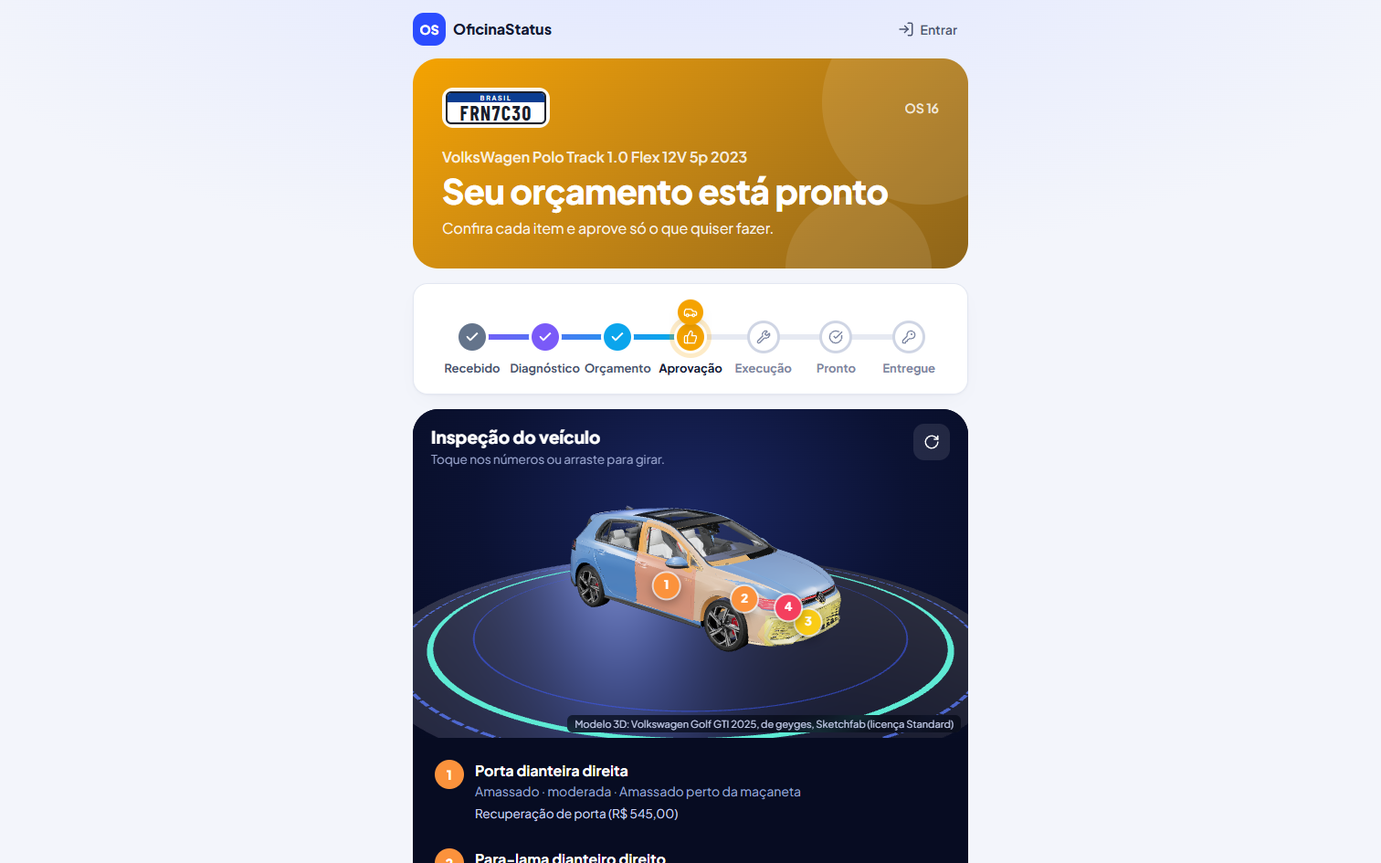
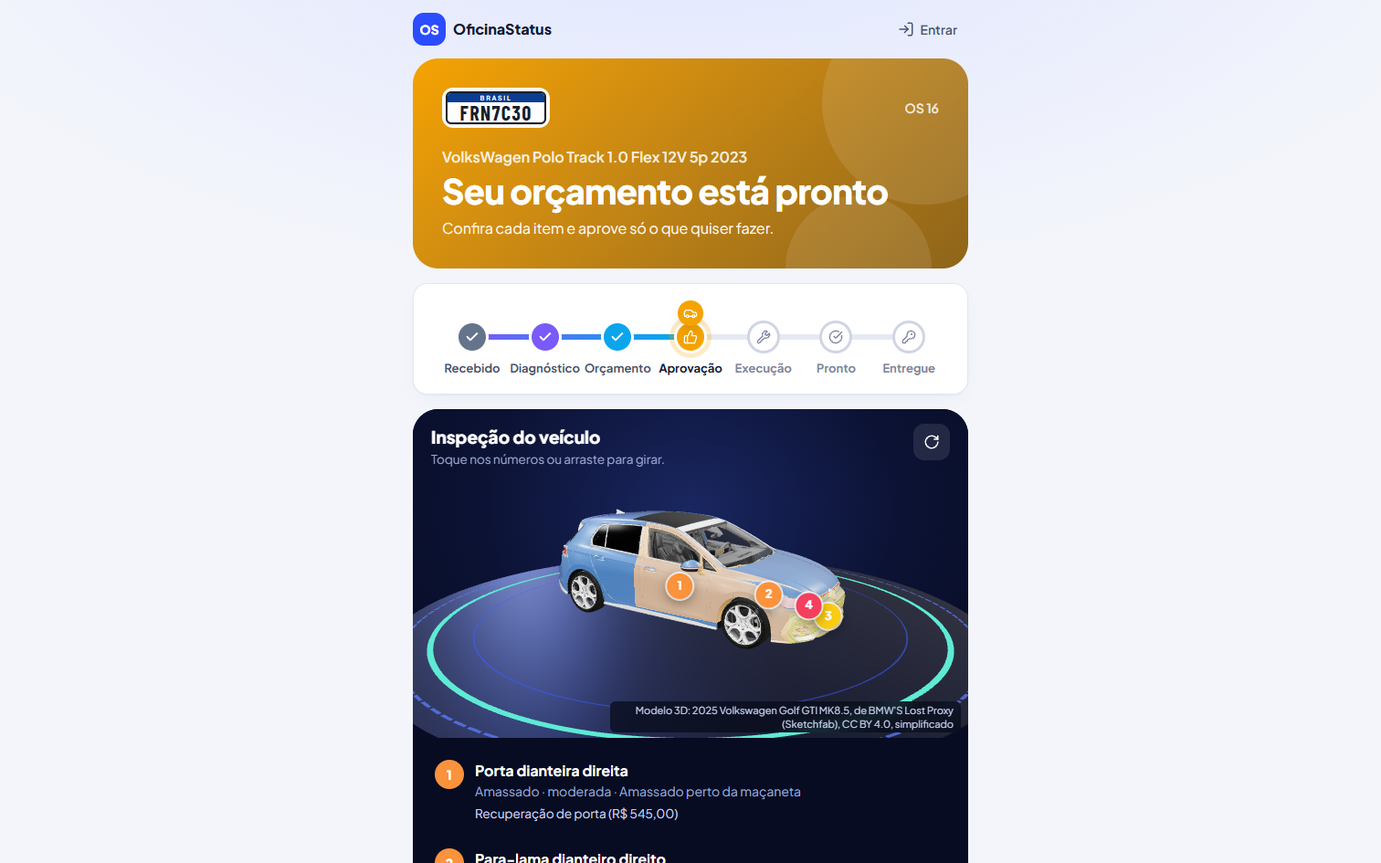
Adiciona o checklist do projeto integrador, o roteiro da apresentação e o domínio no README
- README: seção "Checklist do projeto integrador" com cada requisito
  comum, do Anexo A (Telegram) e do B.8, a situação e a evidência, e
  "print pendente" onde falta print do grupo
- README: passo 9 com o domínio oficinastatus.com.br no DNS do
  Registro.br (registros A, CNAME e TXT asuid), respostas 4 a 6 do B.9
  atualizadas e a estrutura com os modelos 3D e os scripts novos
- docs/apresentacao.md: roteiro de 5 minutos e perguntas prováveis
- docs/deploy/telegram-webhook.txt: getMe e getWebhookInfo, sem o token
- prints da inspeção 3D refeitos com os modelos novos

Changed region(s): [[0.2798, 0.5831, 0.6839, 0.8593]]

diff --git a/README.md b/README.md
@@ -35,7 +35,7 @@ Prints de desktop (1512×945) com os dados do `npm run seed`. A área do cliente
 - **Orçamentos** (ORC-ano-número) com filtro por situação, **Serviços** (catálogo de preços por categoria, editável pelo administrador) e **Histórico** de serviços encerrados.
 - **Abertura de OS pela placa:** se o carro já veio antes, aparece na hora. Se for novo, a consulta por placa (PlacaFipe) preenche marca, modelo, ano e cor, e a busca na **API FIPE** traz o valor de referência.
 - **7 etapas:** recebido → diagnóstico → orçamento → aprovação → execução (com "aguardando peça") → pronto → entregue. O servidor não deixa pular etapas.
-- **Como a inspeção funciona:** um carro em 3D, modelado no próprio sistema, em que o mecânico clica no ponto danificado. A peça é reconhecida sozinha (porta dianteira direita, capô, farol…). Ele escolhe o tipo de avaria e a gravidade, e o sistema sugere os serviços da tabela de preços, com valor e tempo. **Gerar orçamento** transforma as avarias em itens da OS e, se ela estiver no diagnóstico, já o conclui. O cliente vê o carro com os pontos marcados no portal.
+- **Como a inspeção funciona:** um carro em 3D, com um modelo real por carroceria ([Modelos 3D](#modelos-3d)) pintado com a cor do veículo, em que o mecânico clica no ponto danificado. A peça é reconhecida sozinha (porta dianteira direita, capô, farol…). Ele escolhe o tipo de avaria e a gravidade, e o sistema sugere os serviços da tabela de preços, com valor e tempo. **Gerar orçamento** transforma as avarias em itens da OS e, se ela estiver no diagnóstico, já o conclui. O cliente vê o carro com os pontos marcados no portal.
 - **Orçamento por itens**, com peças e mão de obra separadas.
 - **Mecânico responsável:** cada mecânico vê só as OS dele e as que ainda não têm responsável.
 - **Fotos** da entrada, do diagnóstico, da execução e da entrega, tiradas direto pelo celular.
@@ -331,22 +331,44 @@ az containerapp update -g rg-oficinastatus -n oficinastatus --image oficinastatu
 ```
 Cada atualização cria uma revisão nova, que aplica as migrations pendentes antes de subir.
 
-#### 9. Domínio próprio (falta)
-O Anexo B.3 exige domínio próprio também no caminho 2. O domínio vai sair pelo GitHub Student Developer Pack. Quando sair:
-1. **Zona e nameservers:** *DNS zones → Create* no `rg-oficinastatus`. Os **quatro** nameservers do *Overview* (`azure-dns.com`, `.net`, `.org` e `.info`) vão no painel do registrador.
-2. **Registros:** num subdomínio, como `www`, crie um **CNAME** para `oficinastatus.graystone-3f5d3230.brazilsouth.azurecontainerapps.io` e um **TXT** `asuid.www` com o *Custom domain verification ID* do app:
-   ```bash
-   az containerapp show -g rg-oficinastatus -n oficinastatus --query properties.customDomainVerificationId -o tsv
-   ```
-   Na raiz (`@`), o CNAME não é permitido: use um **registro A** para o IP estático do ambiente (`az containerapp env show … --query properties.staticIp`) e um TXT `asuid`.
-3. **Certificado gerenciado:** é gratuito e o Azure renova sozinho.
-   ```bash
-   az containerapp hostname add -g rg-oficinastatus -n oficinastatus --hostname www.<domínio>
-   az containerapp hostname bind -g rg-oficinastatus -n oficinastatus --hostname www.<domínio> \
-     --environment oficinastatus-env --validation-method CNAME
-   ```
-4. **`APP_URL`:** troque para o domínio novo, com `az containerapp update --set-env-vars APP_URL=https://www.<domínio>`.
-5. **Webhook:** registre no domínio definitivo com `npm run webhook -- --url https://www.<domínio>` (usa o token do `server/.env` local, o mesmo do secret).
+#### 9. Domínio próprio: oficinastatus.com.br
+O Anexo B.3 exige domínio próprio também no caminho 2. O domínio **oficinastatus.com.br** foi registrado no **Registro.br**, e a zona fica no DNS do próprio Registro.br, no **modo avançado**. Não foi criada uma zona no Azure DNS.
+
+- **Nameservers:** `a.auto.dns.br` e `b.auto.dns.br`, os do Registro.br. Eles já vêm configurados no domínio, então não há nameserver para trocar no registrador.
+- **Registros:** foram criados no painel do Registro.br, em *DNS → Editar zona*, no modo avançado.
+
+| Tipo | Nome | Valor | Para quê |
+|---|---|---|---|
+| A | *(raiz)* | `4.238.147.212` | IP estático do ambiente `oficinastatus-env` (`az containerapp env show … --query properties.staticIp`) |
+| TXT | `asuid` | *Custom domain verification ID* do app | prova ao Azure que o domínio é nosso |
+| CNAME | `www` | `oficinastatus.graystone-3f5d3230.brazilsouth.azurecontainerapps.io` | endereço do app |
+| TXT | `asuid.www` | o mesmo verification ID | prova do `www` |
+
+O verification ID sai de:
+```bash
+az containerapp show -g rg-oficinastatus -n oficinastatus --query properties.customDomainVerificationId -o tsv
+```
+
+Para conferir do seu computador:
+```bash
+nslookup -type=NS oficinastatus.com.br   # a.auto.dns.br e b.auto.dns.br
+nslookup oficinastatus.com.br            # 4.238.147.212
+nslookup www.oficinastatus.com.br        # CNAME para o Container Apps
+```
+
+Com os registros publicados, o certificado gerenciado é gratuito e renovado pelo Azure. A raiz é validada por HTTP; o `www`, pelo CNAME:
+```bash
+az containerapp hostname add  -g rg-oficinastatus -n oficinastatus --hostname oficinastatus.com.br
+az containerapp hostname bind -g rg-oficinastatus -n oficinastatus --hostname oficinastatus.com.br \
+  --environment oficinastatus-env --validation-method HTTP
+az containerapp hostname add  -g rg-oficinastatus -n oficinastatus --hostname www.oficinastatus.com.br
+az containerapp hostname bind -g rg-oficinastatus -n oficinastatus --hostname www.oficinastatus.com.br \
+  --environment oficinastatus-env --validation-method CNAME
+az containerapp update -g rg-oficinastatus -n oficinastatus --set-env-vars APP_URL=https://oficinastatus.com.br
+npm run webhook -- --url https://oficinastatus.com.br   # setWebhook com o segredo; usa o token do server/.env local, o mesmo do secret
+```
+
+**Situação em 11/11/2026, de madrugada:** os 4 registros foram salvos no painel, mas o Registro.br ainda não os tinha publicado. A zona servida por `a.auto.dns.br` só tinha o TXT `v=spf1 -all`. Por isso, os hostnames, o certificado, o `APP_URL` e o webhook no domínio ficaram para depois da publicação. Veja o [relatório](docs/relatorio-final.md).
 
 #### 10. Limitações conhecidas
 - **Fotos das OS:** ficam em `server/data/uploads`, no disco do contêiner, e **se perdem a cada nova revisão ou reinício**. Para guardá-las de verdade, seria preciso montar um volume do Azure Files.
@@ -389,14 +411,13 @@ Em *Azure Database for PostgreSQL flexible servers → Create*, com *Burstable B
 Com acesso privado, e não por firewall (passo 5). O app roda numa VNet, e o banco só é alcançável por um Private Endpoint nela, com o acesso público desligado. Os IPs de saída do Container Apps de consumo são compartilhados, e a opção *Allow public access from any Azure service* liberaria qualquer recurso do Azure, inclusive de outros clientes. Nunca `0.0.0.0/0`.
 
 **4. Onde fica o serviço de DNS do provedor, e como se cria uma zona para o seu domínio?**
-No **Azure DNS**, em *DNS zones → Create*, com o nome do domínio sem `www` (passo 9). A zona custa centavos por mês ([tutorial](https://learn.microsoft.com/en-us/azure/dns/dns-delegate-domain-azure-dns)).
+No Azure, o serviço é o **Azure DNS**: *DNS zones → Create*, com o nome do domínio sem `www`, por centavos por mês ([tutorial](https://learn.microsoft.com/en-us/azure/dns/dns-delegate-domain-azure-dns)). Neste projeto, a zona ficou no **DNS do Registro.br**, onde o domínio foi registrado, no modo avançado, que permite criar registros A, CNAME e TXT sem custo e sem delegar o domínio (passo 9). O Container Apps não exige que a zona esteja no Azure, só os registros certos.
 
 **5. Quais nameservers o provedor devolveu, e onde eles são informados no registrador do domínio?**
-O Azure devolve quatro, um de cada domínio (`azure-dns.com`, `.net`, `.org` e `.info`), listados no *Overview* da zona. Os quatro vão no painel do registrador, na opção de alterar os servidores DNS. É esse passo que entrega o domínio ao Azure.
-- Nameservers e registrador: `<preencher quando o domínio sair>`
+Com a zona no Registro.br, os nameservers são os dele, `a.auto.dns.br` e `b.auto.dns.br`, que já vêm configurados no domínio. Com o Azure DNS, seriam os quatro do *Overview* da zona (`azure-dns.com`, `.net`, `.org` e `.info`), informados no Registro.br em *Domínio → DNS → Alterar servidores DNS*. É essa troca que entrega o domínio ao Azure.
 
 **6. O seu caso pede registro A ou CNAME? Por quê?**
-**CNAME** num subdomínio (`www`), porque o Container Apps entrega um **nome** (`oficinastatus.graystone-3f5d3230…azurecontainerapps.io`), não um IP da aplicação. A raiz do domínio não aceita CNAME; nela vai um registro A para o IP estático do ambiente. Nos dois casos, o TXT `asuid` prova ao Azure que o domínio é seu.
+**Os dois.** O `www` usa **CNAME**, porque o Container Apps entrega um **nome** (`oficinastatus.graystone-3f5d3230…azurecontainerapps.io`), não um IP fixo da aplicação. A raiz (`oficinastatus.com.br`) não aceita CNAME, porque o DNS não permite CNAME junto com os registros SOA e NS da zona. Nela vai um **registro A** para o IP estático do ambiente (`4.238.147.212`). Nos dois casos, o TXT `asuid` prova ao Azure que o domínio é nosso.
 
 **7. Qual é o mecanismo de certificado do provedor, e ele funciona na arquitetura que vocês escolheram?**
 Funciona. O Container Apps tem **certificado gerenciado gratuito**, que o Azure emite e renova sozinho, para o domínio próprio (passo 9). O endereço `*.azurecontainerapps.io` já vem com o certificado da Microsoft, testado no passo 7. Por isso o Caddy e o Let's Encrypt do caminho 1 não são necessários.
@@ -407,19 +428,66 @@ Em *Cost Management → Budgets*, com orçamento mensal e alertas de 25 %, 50 % 
 **9. Como parar a aplicação e o banco entre uma aula e outra, e o que continua sendo cobrado?**
 O app escala para zero com `--min-replicas 0`. Sem réplica rodando, não há cobrança de processamento, mas o ACR, o Private Endpoint e os logs continuam. O banco para com `az postgres flexible-server stop`, e o armazenamento e os backups continuam sendo cobrados.
 
-### Checklist da entrega (B.8)
-- [x] Provedor escolhido e justificado (início desta seção)
-- [x] Aplicação no ar em https://oficinastatus.graystone-3f5d3230.brazilsouth.azurecontainerapps.io, sem túnel
-- [x] Banco gerenciado e string de conexão sem a senha
-- [x] Banco fechado para a internet: sem acesso público, só pelo Private Endpoint (passo 5)
-- [x] Migrations rodando no banco da nuvem: [`docs/deploy/migrations-azure.log`](docs/deploy/migrations-azure.log)
-- [x] HTTPS válido no endereço do Azure (passo 7)
-- [ ] Domínio próprio, DNS e certificado gerenciado (passo 9)
-- [ ] Webhook do Telegram na URL definitiva (passo 9)
-- [x] Alerta de gasto: orçamento de US$ 100 com alertas de 25 %, 50 % e 100 % (veja *Custo e controle de gasto*)
-- [ ] Prints para o relatório: recursos do grupo, Private Endpoint, banco com acesso público desligado, log das migrations, cadeado no navegador e consumo da assinatura
+O checklist completo da entrega, com o B.8, está em [Checklist do projeto integrador](#checklist-do-projeto-integrador).
 
 Fontes: [Azure Container Apps](https://learn.microsoft.com/azure/container-apps/) · [Rede do Container Apps](https://learn.microsoft.com/azure/container-apps/networking) · [Private Link no Flexible Server](https://learn.microsoft.com/azure/postgresql/flexible-server/concepts-networking-private-link) · [Domínio próprio e certificado gerenciado](https://learn.microsoft.com/azure/container-apps/custom-domains-managed-certificates) · [Parar o Flexible Server](https://learn.microsoft.com/en-us/azure/postgresql/configure-maintain/how-to-stop-server) · [Azure DNS](https://learn.microsoft.com/en-us/azure/dns/dns-delegate-domain-azure-dns) · [Orçamentos no Cost Management](https://learn.microsoft.com/en-us/azure/cost-management-billing/costs/tutorial-acm-create-budgets)
+
+## Checklist do projeto integrador
+
+Cada requisito do `projeto-integrador.pdf`, conferido em 11/11/2026 contra o Azure, o DNS e este repositório:
+- ✅ feito, com a evidência ao lado;
+- ⏳ depende de algo de fora (DNS ou print);
+- ❌ não feito.
+
+Onde a evidência é um print que só o grupo pode tirar, aparece **print pendente**.
+
+### Requisitos comuns (tema 12, OficinaStatus)
+
+| Requisito | Situação | Evidência |
+|---|---|---|
+| API REST própria em Node.js | ✅ | [`server/src/routes/`](server/src/routes), seção [API](#api) |
+| PostgreSQL com migrations versionadas | ✅ | [`server/migrations/`](server/migrations), tabela `schema_migrations`, [`server/src/migrar.js`](server/src/migrar.js) |
+| Entidades mínimas: `clientes`, `veiculos`, `ordens_servico`, `etapas`, `mensagens` | ✅ | [`001_inicial.sql`](server/migrations/001_inicial.sql), [`002_telegram.sql`](server/migrations/002_telegram.sql), [DER](docs/der.md) |
+| Bot do Telegram enviando, e registro de **toda** mensagem enviada e recebida | ✅ | tabela `mensagens` (com `payload_bruto`), [`envio.js`](server/src/services/envio.js), [`telegram.test.js`](server/test/telegram.test.js) |
+| Webhook público em HTTPS, com validação da origem e status `enfileirada / enviada / falha / respondida` | ✅ no endereço do Azure · ⏳ no domínio | `POST /webhook/telegram` responde 401 sem o segredo (testado em produção); registro no domínio: [passo 9](#9-domínio-próprio-oficinastatuscombr) |
+| Vínculo (opt-in) por deep link, com o `chat_id` gravado | ✅ | `canais_usuario`, [`canais.js`](server/src/services/canais.js), teste "o deep link vincula o chat" |
+| Segunda API: FIPE (Parallelum) | ✅ | [`fipe.js`](server/src/services/fipe.js), seção [FIPE](#fipe-parallelum) |
+| Docker Compose no desenvolvimento (aplicação + banco) | ✅ | [`docker-compose.yml`](docker-compose.yml) |
+| Prometheus e Grafana (2º bimestre) | ❌ | ainda não feito |
+| Repositório com uma tag por aula (`aula-01` a `aula-18`) e release `v1.0.0` | ❌ | o repositório não tem tags nem releases |
+| CI com lint e testes | ✅ | [`.github/workflows/ci.yml`](.github/workflows/ci.yml): lint, 40 testes de integração e build a cada push |
+| Deploy em nuvem com URL pública e HTTPS válido | ✅ no endereço do Azure · ⏳ no domínio | [Deploy no Azure](#deploy-no-azure-container-apps), passo 7 |
+
+### Anexo A: Telegram (A.3.7, A.5 e A.7)
+
+| Item | Situação | Evidência |
+|---|---|---|
+| Bot criado no @BotFather, token no `.env`, fora do Git | ✅ | `@oficinastatus_breno_bot`. Em produção, o token é o secret `telegram-token` do Container Apps |
+| `getMe` respondendo `ok: true` | ✅ | conferido em 11/11/2026 |
+| Deep link de vínculo gravando o `chat_id` | ✅ | teste "o deep link vincula o chat e funciona para cliente sem e-mail" |
+| Envio com o `message_id` em `mensagens.id_externo` | ✅ | teste "envio grava o message_id" |
+| `setWebhook` com `secret_token` e 401 quando o cabeçalho não confere | ✅ 401 · ⏳ URL definitiva | teste "webhook recusa quem não traz o segredo certo"; registro e `getWebhookInfo` no domínio: [`docs/deploy/telegram-webhook.txt`](docs/deploy/telegram-webhook.txt) |
+| Mensagens recebidas e cliques de botão persistidos | ✅ | testes "Aprovar pelo botão…" e "update repetido é processado uma vez…" |
+| Tratamento de 429 e de 403 | ✅ | testes "429 espera o retry_after" e "403 desativa o vínculo" |
+| Nomes do modelo de dados A.5 (`canais_usuario`, `mensagens`, enums `plataforma_msg` e `status_msg`) | ✅ | [`002_telegram.sql`](server/migrations/002_telegram.sql) |
+| Segurança (A.7): token fora do código, origem validada, 200 rápido, idempotência por `update_id`, `payload_bruto` | ✅ | [`.env.example`](server/.env.example) sem valores; testes "webhook responde 200 antes de processar" e "update repetido…" |
+
+### Anexo B: publicação (B.1 e checklist B.8)
+
+| Item do B.8 | Situação | Evidência |
+|---|---|---|
+| Provedor escolhido e justificado | ✅ | [Deploy no Azure](#deploy-no-azure-container-apps): Azure, caminho 2, porque a assinatura gratuita não libera VMs |
+| Aplicação rodando em máquina de nuvem, sem túnel | ✅ | https://oficinastatus.graystone-3f5d3230.brazilsouth.azurecontainerapps.io (`/api/saude` → 200) |
+| Banco em serviço gerenciado | ✅ · **print pendente** | String sem a senha no README. Print: *Overview* do `oficinastatus-db-breno`, com *Burstable B1ms* |
+| Banco fechado para a internet | ✅ · **print pendente** | Acesso público desligado e só o Private Endpoint (passo 5). Prints: *Networking* do servidor com *Public access: Disabled* e a conexão do `pe-oficinastatus-db` |
+| Migrations rodando contra o banco da nuvem | ✅ | [`docs/deploy/migrations-azure.log`](docs/deploy/migrations-azure.log): `Migrations aplicadas: 001_inicial.sql, 002_telegram.sql` |
+| Domínio apontado por DNS | ⏳ | registros criados no Registro.br e ainda não publicados ([passo 9](#9-domínio-próprio-oficinastatuscombr)); depois, `nslookup oficinastatus.com.br` → `4.238.147.212` · **print pendente** |
+| HTTPS válido | ✅ no endereço do Azure · ⏳ no domínio | Endereço do Azure: certificado *Microsoft TLS G2 RSA CA OCSP 04*, TLS 1.3. No domínio, depende do DNS · **print pendente** (cadeado) |
+| Webhook da plataforma usando a URL definitiva | ⏳ | depende do domínio; hoje o webhook ainda aponta para um túnel antigo · **print pendente** |
+| Documentação do caminho de DNS e certificado | ✅ | [passo 9](#9-domínio-próprio-oficinastatuscombr) e [B.9](#roteiro-de-pesquisa-b9), perguntas 4 a 7 |
+| Controle de custo | ✅ · **print pendente** | Orçamento de US$ 100 com alertas de 25/50/100 % ([Custo](#custo-e-controle-de-gasto)). Prints: o orçamento com os alertas e o *Cost analysis* com o consumo |
+| Segredos no cofre do provedor, ou no mínimo fora do Git (B.4 e B.7) | ✅ | secrets do Container Apps; nada de `.env` na imagem nem no Git |
+| Roteiro de pesquisa B.9 respondido | ✅ | [B.9](#roteiro-de-pesquisa-b9) |
 
 ## Estrutura
 
@@ -447,25 +515,29 @@ oficinastatus/
 │   │       └── relatorios.js     # indicadores do painel
 │   ├── scripts/webhook.js        # npm run webhook: túnel + setWebhook (--url: domínio de produção)
 │   ├── .env.example              # variáveis de desenvolvimento
-│   ├── .env.production.example   # variáveis de produção, comentadas
+│   ├── .env.production.example   # variáveis de produção do caminho 1 (VM); no Container Apps são secrets
 │   └── test/                     # fluxo completo, vistoria, Telegram e PostgreSQL pela API
 ├── client/src/
 │   ├── acesso/                   # entrar, primeiro acesso, criar senha
 │   ├── oficina/                  # painel, quadro, OS, nova OS, cadastros, equipe, integrações
 │   ├── cliente/                  # portal, detalhe da OS, página do link
-│   ├── vistoria/                 # carro 3D, detecção da peça, painel de avarias
+│   ├── vistoria/                 # carro 3D, detecção da peça, painel de avarias; medidas-modelos.json
 │   ├── ui/                       # placa Mercosul, trilha de etapas, botões, modais, avisos
 │   └── lib/                      # API, login, formatos, etapas
+├── client/public/modelos/        # hatch, sedan, suv e picape .glb (Sketchfab, CC BY / CC BY-SA)
+├── client/scripts/               # otimizar-modelo.mjs e inspecionar-modelo.mjs (modelos 3D)
 ├── deploy/
 │   ├── definir-banco-azure.ps1   # grava a DATABASE_URL como secret do Container Apps (pede a senha)
 │   ├── trocar-senhas.ps1         # troca as senhas das contas de produção pela API (pede cada senha)
 │   └── instalar-vm.sh            # caminho 1 (VM), não usado: prepara uma VM Ubuntu com Docker
-├── docs/deploy/                  # log das migrations no banco da nuvem
+├── docs/deploy/                  # evidências do deploy: log das migrations e webhook do Telegram
+├── docs/apresentacao.md          # roteiro de 5 minutos e perguntas prováveis
+├── docs/relatorio-final.md       # o que foi feito, testes e pendências
 ├── docs/                         # DER, fluxo de estados e telas
 ├── Dockerfile                    # imagem da aplicação (site + API)
 ├── docker-compose.yml            # desenvolvimento: aplicação + PostgreSQL
-├── docker-compose.prod.yml       # produção: aplicação + Caddy, com banco gerenciado
-└── Caddyfile                     # HTTPS automático com Let's Encrypt
+├── docker-compose.prod.yml       # caminho 1 (VM + Caddy), não usado: a produção é no Container Apps
+└── Caddyfile                     # caminho 1: HTTPS com Let's Encrypt na VM
 ```
 
 ## Banco de dados

diff --git a/docs/apresentacao.md b/docs/apresentacao.md
@@ -1,0 +1,118 @@
+# Roteiro da apresentação (5 minutos)
+
+OficinaStatus, de Arthur Svidzinski e Breno Suski: o cliente da oficina recebe um aviso a cada etapa da OS, pelo
+Telegram e por e-mail, e aprova o orçamento pelo celular.
+
+**Endereço:** https://oficinastatus.com.br. Se o domínio não estiver no ar, use
+https://oficinastatus.graystone-3f5d3230.brazilsouth.azurecontainerapps.io, que é o mesmo app.
+
+## Antes de começar (5 minutos antes)
+
+- [ ] **App acordado e no ar:** abrir o site. Com uma réplica sempre ligada, ele responde na hora. Conferir `/api/saude` → `{"ok":true}`.
+- [ ] **Abas abertas:**
+  - o admin logado em *Pátio*;
+  - o link público da OS 16 no celular;
+  - um terminal com os comandos da seção 2;
+  - o portal do Azure no grupo `rg-oficinastatus`.
+- [ ] **Telegram:** no celular, conversa com o `@oficinastatus_breno_bot` aberta.
+- [ ] **Senhas:** são as que vocês definiram com o `deploy/trocar-senhas.ps1`. A `oficina123` não vale mais.
+
+## 1. O problema e a solução (0:00 a 0:30)
+
+"O cliente liga várias vezes para saber do carro. No OficinaStatus, cada OS passa por 7 etapas, de recebido a
+entregue. Cada mudança avisa o cliente pelo bot do Telegram e por e-mail, e o orçamento é aprovado por um botão no
+Telegram ou pelo link, sem ligação."
+
+## 2. Onde roda: os requisitos de publicação (0:30 a 1:15)
+
+Mostrar rapidamente, sem ler:
+
+```bash
+nslookup oficinastatus.com.br         # devolve o IP do ambiente do Azure (A); www é CNAME para o Container Apps
+curl -I https://oficinastatus.com.br  # 200, com HTTPS válido (mostrar o cadeado no navegador e o emissor)
+curl -i -X POST https://oficinastatus.com.br/webhook/telegram   # 401: sem o segredo, o webhook recusa
+```
+
+1. **Aplicação:** Azure Container Apps (caminho 2 do Anexo B), porque a assinatura gratuita não libera nenhum tamanho de VM.
+2. **Banco:** PostgreSQL Flexible Server gerenciado, **sem acesso público**. A única entrada é um Private Endpoint dentro da VNet do app.
+3. **Migrations:** rodaram no banco vazio da nuvem, no `docs/deploy/migrations-azure.log`.
+4. **Segredos:** ficam nos secrets do Container Apps, e não em arquivo.
+5. **Custo:** orçamento de US$ 100 com alertas em 25, 50 e 100 %.
+
+## 3. Demonstração ao vivo (1:15 a 4:00)
+
+1. **Login (admin).** *Pátio*: cada carro na coluna da sua etapa.
+2. **Abrir a OS 16** (Fernanda, Polo, aguardando aprovação). A *estrada* mostra as 7 etapas, e o servidor não deixa pular nenhuma.
+3. **Inspeção 3D:**
+   - abrir a inspeção da OS 16 e girar o carro;
+   - mostrar as 4 avarias marcadas nas peças;
+   - passar o mouse e clicar numa peça: o sistema reconhece sozinho a porta dianteira direita, o farol e assim por diante;
+   - mostrar o crédito do modelo no canto. São modelos do Sketchfab com licença CC BY e CC BY-SA, um por carroceria, pintados com a cor cadastrada do veículo.
+4. **Orçamento:** gerado a partir das avarias, com peças e mão de obra. Mostrar a *Prévia do cliente*.
+5. **Aprovar pelo Telegram** (OS 12, João, Strada):
+   - entrar como `joao@cliente.com` e tocar em **Vincular outra conta**. Abrir o link no celular e mandar `/start`; o `chat_id` fica em `canais_usuario`;
+   - como admin, em *Mensagens*, tocar em **Tentar de novo** no orçamento da OS 12;
+   - o orçamento chega no Telegram com os botões **Aprovar** e **Recusar**. Tocar em **Aprovar**;
+   - na oficina, a OS 12 vai para *Execução*. Em *Mensagens*, o orçamento fica com o status **respondida**.
+6. **Plano B, se o Telegram falhar:** abrir o link público da OS 16 no celular e aprovar por ali.
+
+## 4. Por dentro (4:00 a 4:45)
+
+- **Mensagens:** toda mensagem enviada ou recebida fica em `mensagens`, com os nomes da tabela do Anexo A.5. Ela guarda o `id_externo` (o `message_id`) e o `payload_bruto`, e o status segue o ciclo `enfileirada → enviada / falha → respondida`.
+- **Webhook:**
+  - confere o cabeçalho `X-Telegram-Bot-Api-Secret-Token`;
+  - responde 200 antes de processar;
+  - ignora `update_id` repetido;
+  - no erro 429, espera o `retry_after`; no 403, desativa o vínculo.
+- **Segunda API:** a FIPE da Parallelum traz o valor de referência na abertura da OS.
+- **Qualidade:** GitHub Actions roda lint, os 40 testes de integração e o build a cada push.
+
+## 5. Fechamento (4:45 a 5:00)
+
+"Está publicado com domínio, HTTPS e banco gerenciado fechado. O cliente acompanha e aprova pelo Telegram, sem
+precisar ligar."
+
+## Perguntas prováveis
+
+**Por que Container Apps e não uma VM?**
+A assinatura gratuita do Azure devolveu `NotAvailableForSubscription` para todos os tamanhos de VM. O Anexo B aceita
+o caminho 2, e o domínio próprio continua obrigatório, o que foi feito.
+
+**Como só a aplicação acessa o banco?**
+O banco está com o acesso público desligado e não tem nenhuma regra de firewall. O app fica numa VNet, e o banco
+tem um Private Endpoint nela (IP privado 10.20.1.4). A regra por IP não servia: os IPs de saída do Container Apps
+(181) são um pool compartilhado com outros clientes do Azure.
+
+**Onde ficam os segredos?**
+Nos secrets do Container Apps: `database-url`, `jwt-secret` e `telegram-*`. A senha do banco foi digitada num
+script que não mostra nem grava. Nada disso vai para o Git.
+
+**A ou CNAME?**
+A raiz não aceita CNAME, então usa registro A para o IP estático do ambiente. O `www` usa CNAME para o endereço
+do Container Apps. Os TXT `asuid` provam ao Azure que o domínio é nosso.
+
+**Quem emite o certificado?**
+O certificado gerenciado do Container Apps, que é gratuito e renovado pelo Azure. O emissor está anotado no README.
+
+**Telegram não informa "lido". Como vocês sabem que o cliente viu?**
+Pelo status `respondida`, que vem do clique no botão. É o que o Anexo A.2.1 pede.
+
+**E se o cliente bloquear o bot?**
+O Telegram devolve 403, o vínculo é desativado e a mensagem fica como `falha`, com o motivo, na tela *Mensagens*.
+
+**E o 429?**
+O envio espera o `retry_after` e tenta de novo. Erros temporários usam backoff, com até 5 tentativas.
+
+**As migrations rodaram mesmo na nuvem?**
+Sim. O app roda as migrations antes de subir, e o log da primeira subida com o banco vazio está em
+`docs/deploy/migrations-azure.log`.
+
+**Quanto custa?**
+O maior item é o banco B1ms. O ACR Basic sai por cerca de US$ 5 por mês e o Private Endpoint, por cerca de US$ 8.
+Com uma réplica ligada, o Container Apps fica entre US$ 4 e 15. Para economizar entre as aulas, dá para pôr o app
+com zero réplicas e parar o banco.
+
+**De onde vêm os carros 3D?**
+Do Sketchfab, com licença CC BY 4.0 (Golf, Creta e Hilux) e CC BY-SA 4.0 (Corolla). O crédito aparece na tela, e
+as licenças estão no README. O script `otimizar-modelo.mjs` deixa cada um com 1,5 a 2,5 MB e separa as peças para
+o clique.
